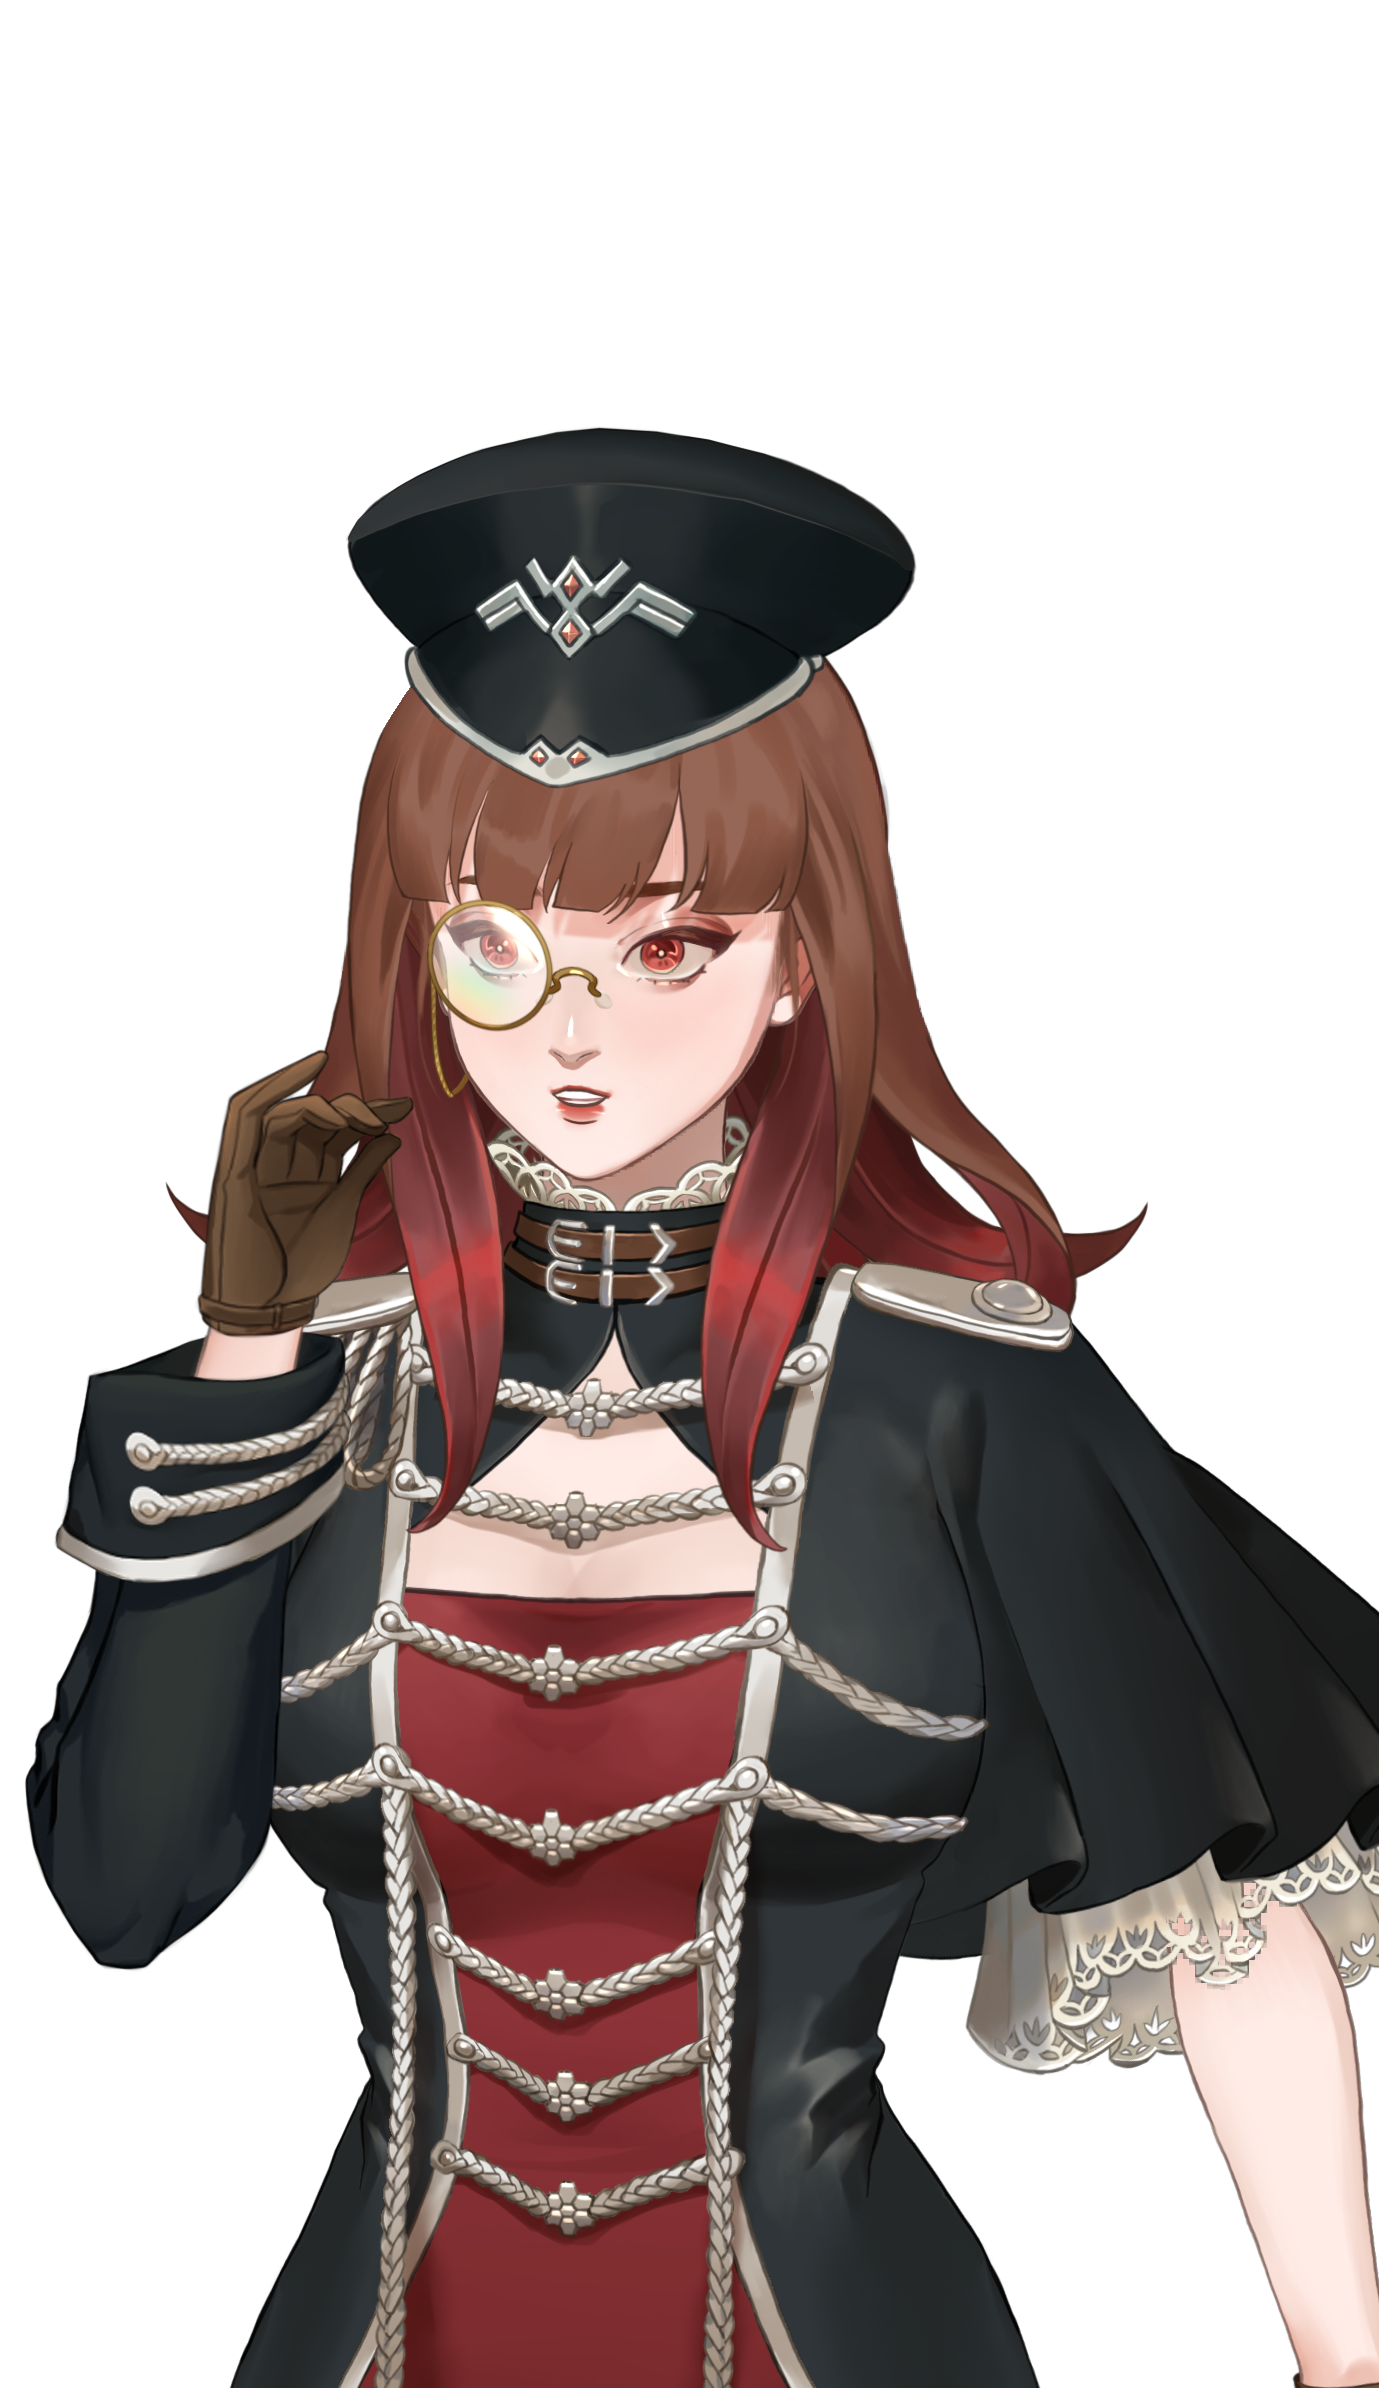
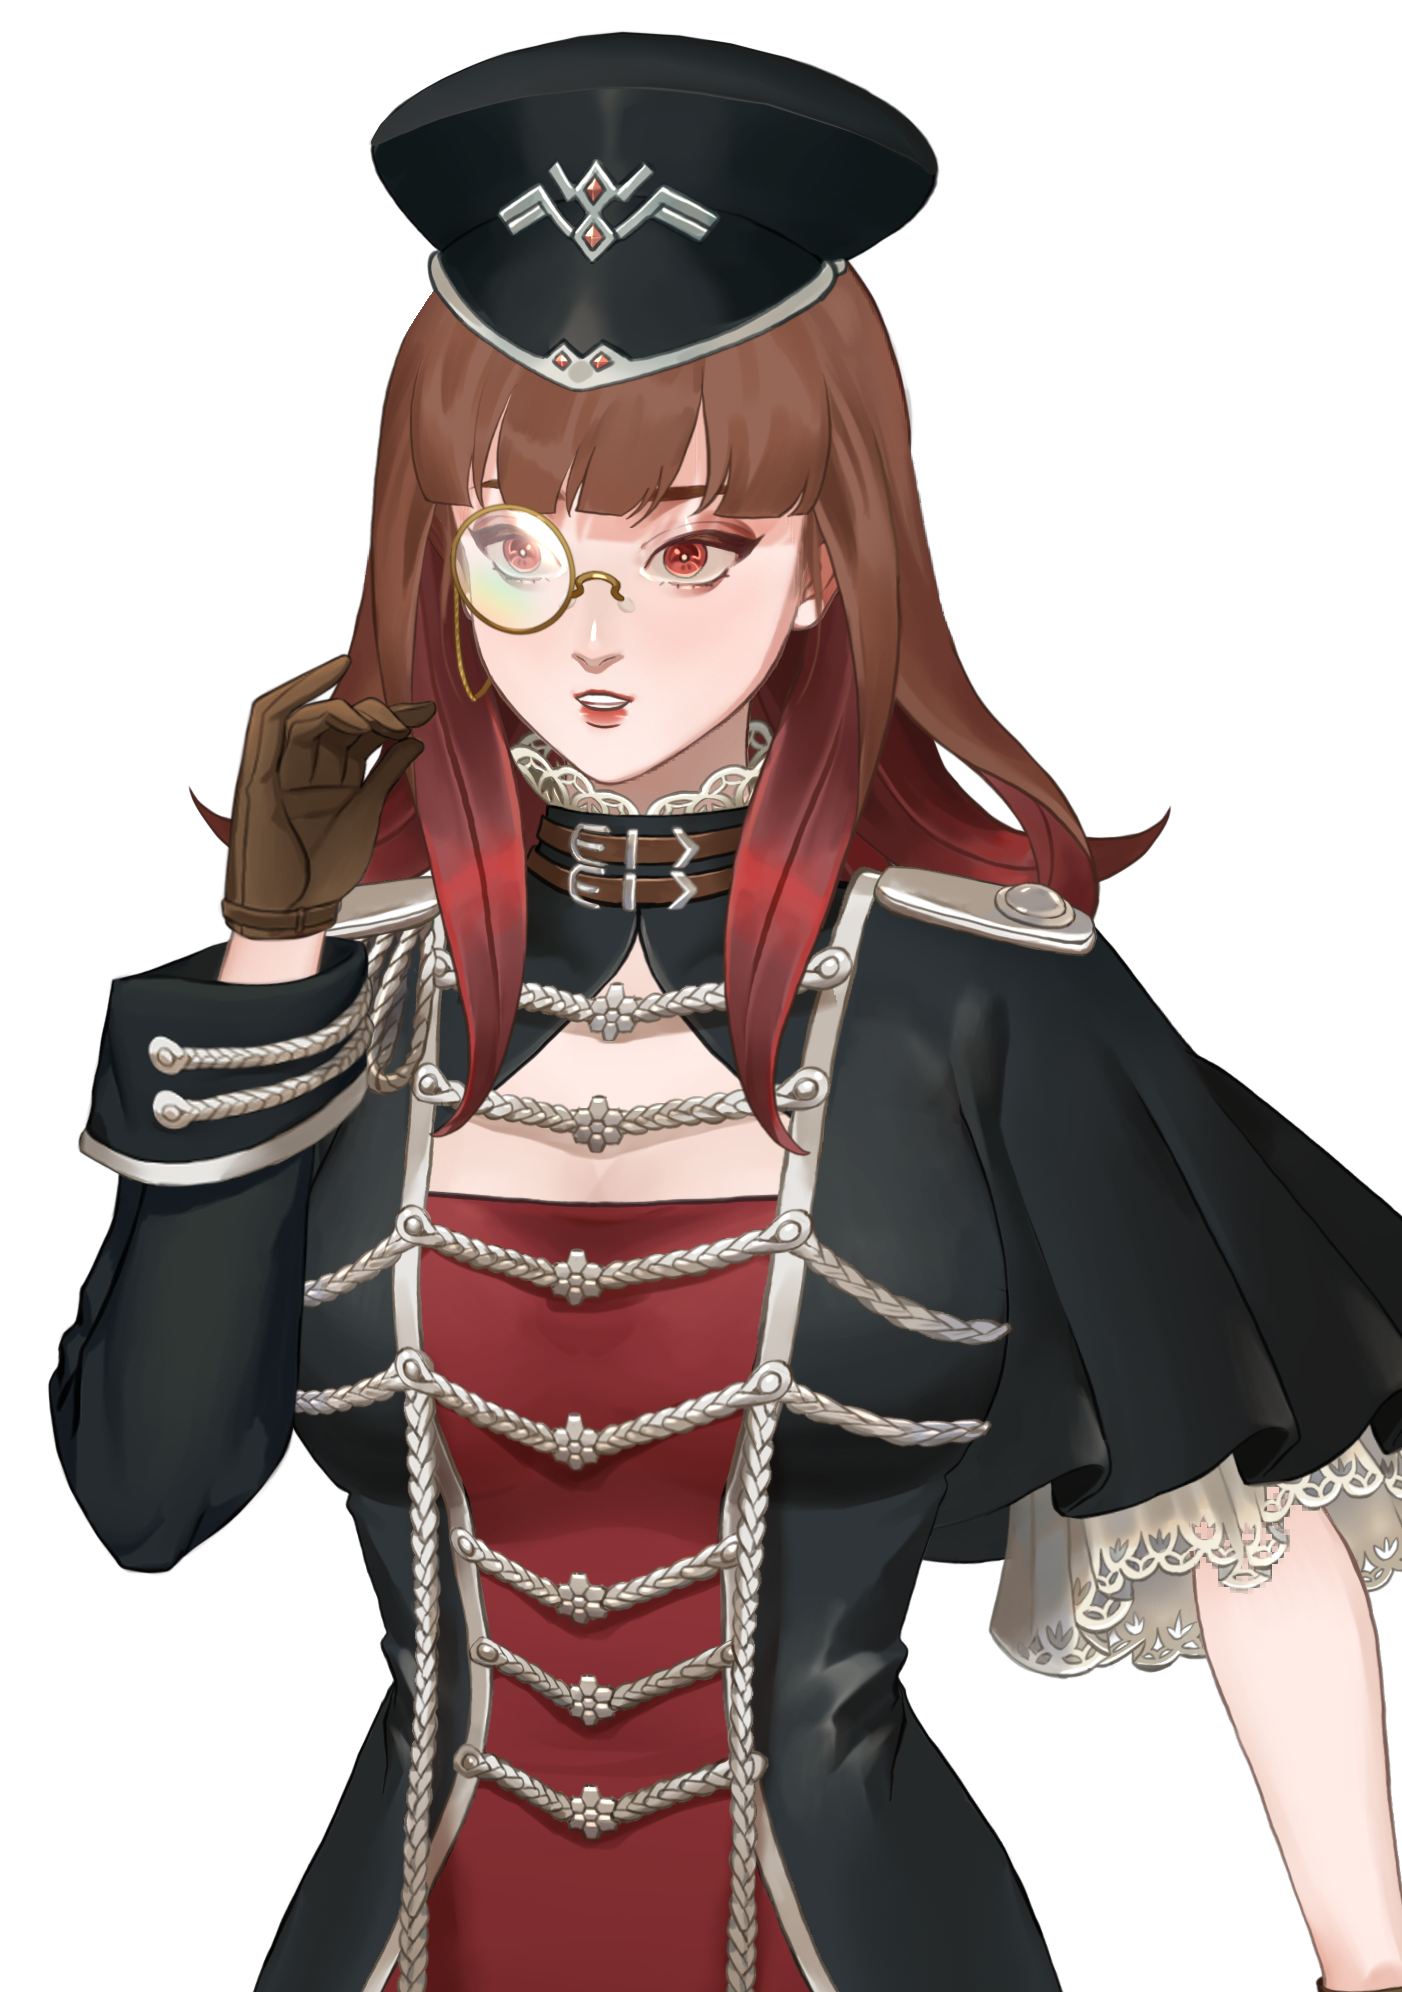
🎈 perf(ui): optimize side images and fix layout shift
* Convert side decor PNGs to WebP format to reduce file size and loading time
* Add explicit width and height attributes in HTML to prevent Cumulative Layout Shift
* Scale down original images to an optimal height of 1000px

diff --git a/pages/search_results.html b/pages/search_results.html
@@ -257,14 +257,18 @@
   </head>
   <body>
     <img
-      src="../asset/left_image.png"
+      src="../asset/left_image.webp"
       alt="Left Decor Image"
       class="side-image left"
+      width="764"
+      height="1000"
     />
     <img
-      src="../asset/right_image.png"
+      src="../asset/right_image.webp"
       alt="Right Decor Image"
       class="side-image right"
+      width="703"
+      height="1000"
     />
 
     <div class="container">

diff --git a/pages/month.html b/pages/month.html
@@ -24,14 +24,18 @@
   </head>
   <body>
     <img
-      src="../asset/left_image.png"
+      src="../asset/left_image.webp"
       alt="Left Decor Image"
       class="side-image left"
+      width="764"
+      height="1000"
     />
     <img
-      src="../asset/right_image.png"
+      src="../asset/right_image.webp"
       alt="Right Decor Image"
       class="side-image right"
+      width="703"
+      height="1000"
     />
 
     <div class="container">

diff --git a/index.html b/index.html
@@ -260,14 +260,18 @@
   </head>
   <body>
     <img
-      src="./asset/left_image.png"
+      src="./asset/left_image.webp"
       alt="Left Decor Image"
       class="side-image left"
+      width="764"
+      height="1000"
     />
     <img
-      src="./asset/right_image.png"
+      src="./asset/right_image.webp"
       alt="Right Decor Image"
       class="side-image right"
+      width="703"
+      height="1000"
     />
 
     <div class="container">
